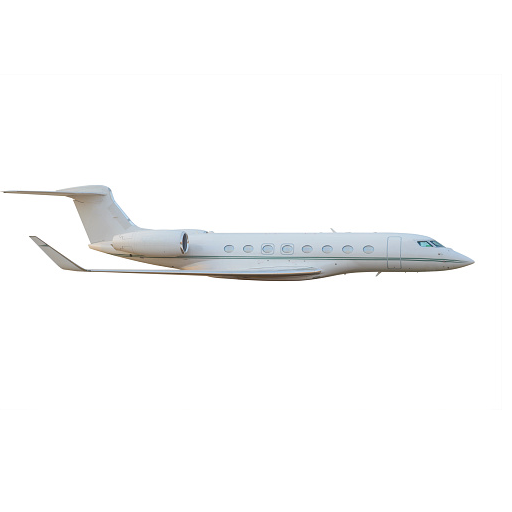
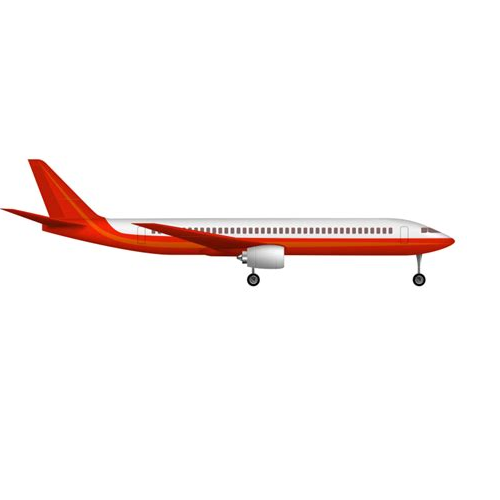
view layout ready

Changed region(s): [[0.0, 0.3, 0.93, 0.57]]

diff --git a/src/main/java/view/MainWindow.java b/src/main/java/view/MainWindow.java
@@ -1,38 +1,60 @@
 package view;
 
 import javax.swing.*;
+import javax.swing.event.ChangeEvent;
 import java.awt.*;
+import java.awt.event.MouseEvent;
 
 public class MainWindow {
+    private static final int SKYSIZE = 400;
+    private static final int PLANE_SIZE = 200;
+    private static final int PLANE_MARGIN = (SKYSIZE - PLANE_SIZE) / 2;
+    private static final int INSTRUMENT_H = 50;
+
     private final JFrame frame;
     private final JPanel airspace;
+    private final JPanel instruments;
+    private final RotatedIcon planeIcon;
+    private final JLabel planeLabel;
+    private final JLabel IAS, ALT, GND;
+    private final JSlider slider;
+
+    private int ias, alt=398, gnd, setalt;
 
     public MainWindow() {
         frame = new JFrame();
+        frame.setSize(SKYSIZE, 600);
+        frame.setLayout(new BorderLayout());
         frame.setDefaultCloseOperation(JFrame.EXIT_ON_CLOSE);
         frame.setResizable(false);
 
         airspace = new JPanel();
-        airspace.setLayout(new GridLayout(3, 3));
-        frame.add(airspace);
+        airspace.setLayout(null);
         airspace.setBackground(Color.BLUE);
-
-        airspace.setSize(400, 400);
-
-        ImageIcon icon = new ImageIcon(resizedImage("src/main/resources/plane.png", 100, 100));
-        RotatedIcon rotatedIcon = new RotatedIcon(icon, 30);
-
-        JLabel planeLabel = new JLabel(rotatedIcon);
-        planeLabel.setHorizontalAlignment(JLabel.LEFT);
-        planeLabel.setVerticalAlignment(JLabel.BOTTOM);
-
+        ImageIcon icon = new ImageIcon(resizedImage("src/main/resources/plane.png", PLANE_SIZE, PLANE_SIZE));
+        planeIcon = new RotatedIcon(icon, 0);
+        planeLabel = new JLabel(planeIcon);
+        planeLabel.setBounds(PLANE_MARGIN, PLANE_MARGIN, PLANE_SIZE, PLANE_SIZE);
         airspace.add(planeLabel);
-//        System.out.println(planeLabel.getVerticalAlignment());
-//        planeLabel.setAlignmentX(0.5f);
-//        System.out.println(planeLabel.getAlignmentY());
 
-//        rotatedIcon.setDegrees(270);
-//        airspace.repaint();
+        IAS = createGauge("Speed: -", 0, 0, SKYSIZE / 3, INSTRUMENT_H);
+        ALT = createGauge("Alt: - (-)", SKYSIZE / 3, 0, 2 * SKYSIZE / 3, INSTRUMENT_H);
+        GND = createGauge("Ground: -", 0, PLANE_MARGIN + PLANE_SIZE + 50, SKYSIZE, INSTRUMENT_H);
+
+        instruments = new JPanel();
+
+        slider = new JSlider(0, 400, 200);
+        slider.setMinorTickSpacing(10);
+        slider.setMajorTickSpacing(100);
+        slider.setPaintTicks(true);
+        slider.addChangeListener((ChangeEvent event) -> {
+            setalt = slider.getValue();
+            regauge();
+        });
+        instruments.add(slider);
+
+        frame.add(airspace, BorderLayout.CENTER);
+        frame.add(instruments, BorderLayout.PAGE_END);
     }
 
     private Image resizedImage(String path, int x, int y) {
@@ -41,9 +63,22 @@ public class MainWindow {
         return image.getScaledInstance(x, y, Image.SCALE_SMOOTH);
     }
 
+    private JLabel createGauge(String init, int x, int y, int width, int height) {
+        JLabel gauge = new JLabel(init, JLabel.CENTER);
+        gauge.setBounds(x, y, width, height);
+        gauge.setFont(new Font("Arial", Font.PLAIN,18));
+        gauge.setForeground(Color.GREEN);
+        airspace.add(gauge);
+        return gauge;
+    }
+
+    public void regauge() {
+        ALT.setText("Altitude: " + alt*100 + " (" + setalt*100 + ")");
+        IAS.setText("Speed: " + ias);
+        GND.setText("Ground: " + gnd*100);
+    }
+
     public void show() {
-        frame.setSize(400, 500);
-        frame.setLayout(null);
         frame.setVisible(true);
     }
 }
